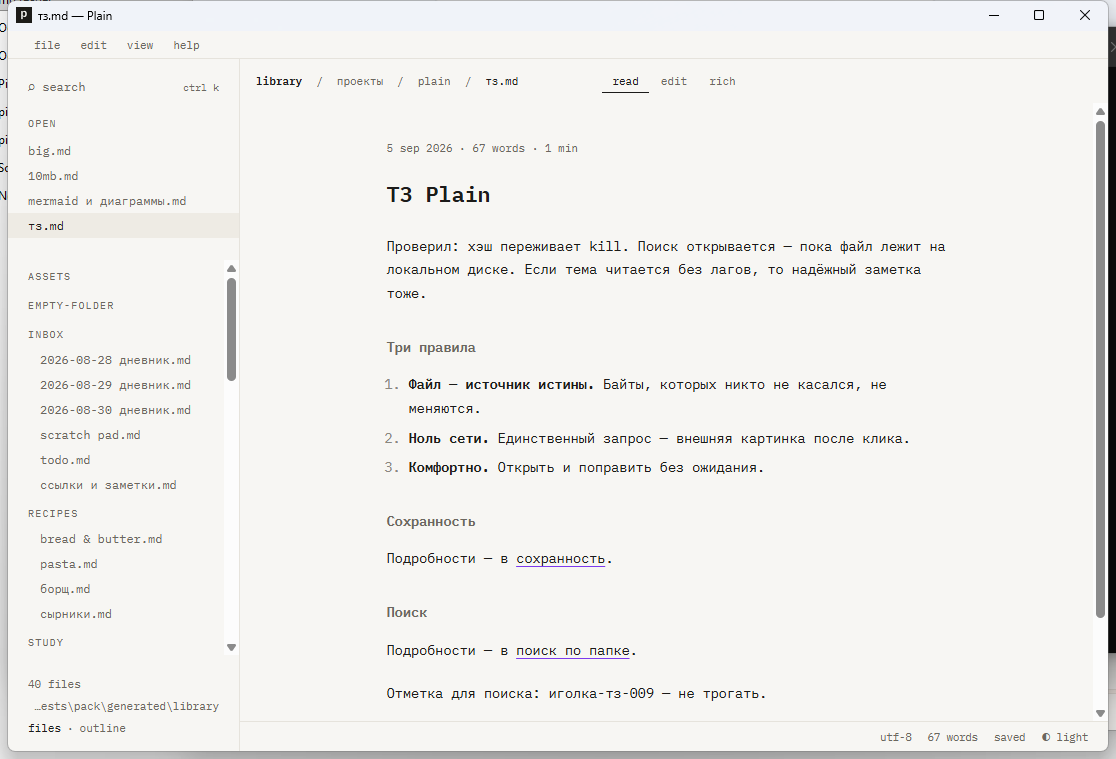
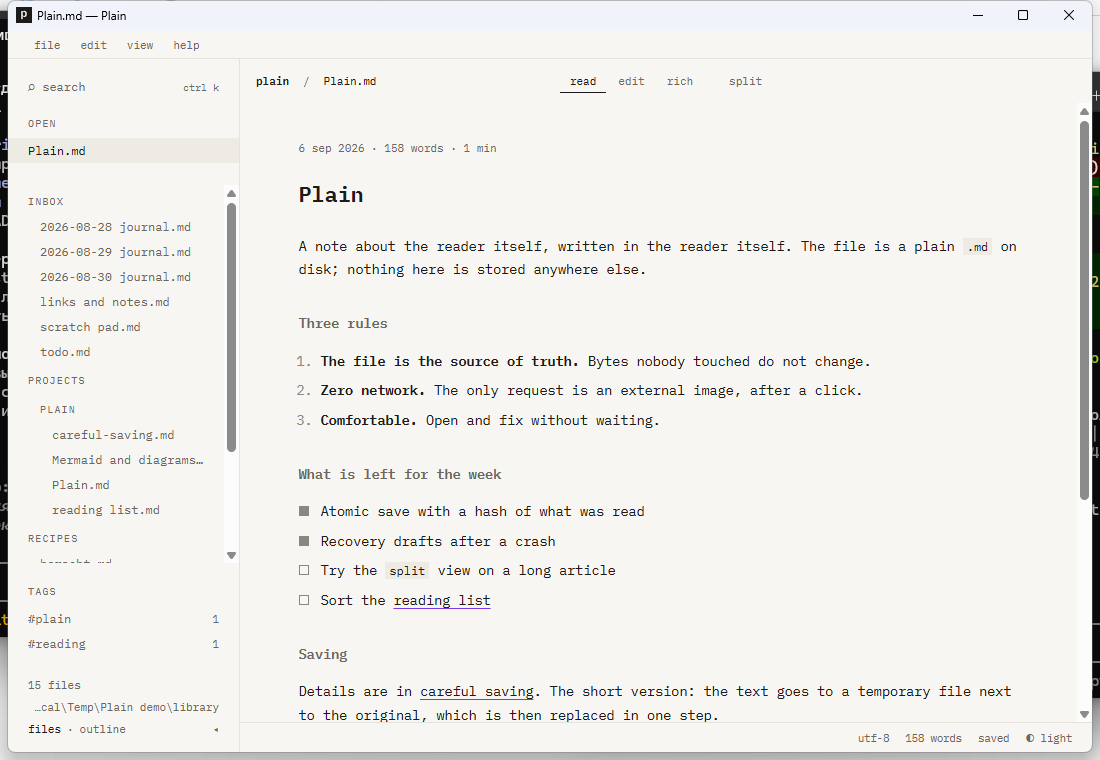
Tags need a letter: `#12` in "issue #12" is a number, not a tag (read view and library agree); README screenshots retaken on an English demo library at 0.2.1
Claude-Session: https://claude.ai/code/session_01WR61PQr8nE85QUqBd7CLR1

diff --git a/src/read/tags.ts b/src/read/tags.ts
@@ -8,8 +8,12 @@ import { visit, SKIP } from "unist-util-visit";
 import type { Parent, Root, RootContent, Text } from "mdast";
 import { parseDocument } from "./headings";
 
-/** `#tag` at a word boundary; the boundary character is captured too. */
-const TAG = /(^|[\s(])#(\p{L}[\p{L}\d_-]*|[\d_][\p{L}\d_-]*)/gu;
+/**
+ * `#tag` at a word boundary; the boundary character is captured too. The tag
+ * needs a letter somewhere: `#12` in "issue #12" is a number, not a tag (the
+ * same rule Obsidian applies; the Rust side in `search.rs` agrees).
+ */
+const TAG = /(^|[\s(])#(?=[\d_-]*\p{L})([\p{L}\d_][\p{L}\d_-]*)/gu;
 
 /** Subtrees a tag cannot live in. */
 const CLOSED = new Set(["code", "inlineCode", "link", "linkReference", "definition", "heading"]);

diff --git a/src/read/tags.test.ts b/src/read/tags.test.ts
@@ -22,7 +22,11 @@ describe("tagsOf", () => {
   });
 
   it("accepts digits, underscores and dashes inside a tag", () => {
-    expect(tagsOf("#read-later #v0_1 #2026\n")).toEqual(["read-later", "v0_1", "2026"]);
+    expect(tagsOf("#read-later #v0_1 #2fa #q3-2026\n")).toEqual(["read-later", "v0_1", "2fa", "q3-2026"]);
+  });
+
+  it("does not take a bare number for a tag", () => {
+    expect(tagsOf("see issue #12, #2026 and #2024_ but #v2\n")).toEqual(["v2"]);
   });
 
   it("stops at punctuation", () => {

diff --git a/src-tauri/src/search.rs b/src-tauri/src/search.rs
@@ -484,6 +484,11 @@ fn tags_in(text: &str, pattern: &regex::Regex) -> Vec<String> {
                 continue;
             }
             let tag = found.get(1).expect("group 1").as_str().to_lowercase();
+            // `#12` in "issue #12" is a number, not a tag: a tag needs a letter
+            // somewhere (the same rule Obsidian applies).
+            if !tag.chars().any(char::is_alphabetic) {
+                continue;
+            }
             out.push(tag);
         }
     }
@@ -1107,6 +1112,18 @@ mod tests {
         )
         .unwrap();
         assert_eq!(tag_names(&tags(dir.path(), &md()).unwrap()), vec!["real"]);
+    }
+
+    /// `#12` in "issue #12" is a number; a tag needs a letter somewhere.
+    #[test]
+    fn a_bare_number_is_not_a_tag() {
+        let dir = tempfile::tempdir().unwrap();
+        fs::write(
+            dir.path().join("a.md"),
+            "see issue #12 and #2024_ but #v2 and #2fa and #q3-2026 count\n",
+        )
+        .unwrap();
+        assert_eq!(tag_names(&tags(dir.path(), &md()).unwrap()), vec!["2fa", "q3-2026", "v2"]);
     }
 
     /// Review #13: an indented code block is code; an indented list is not.
